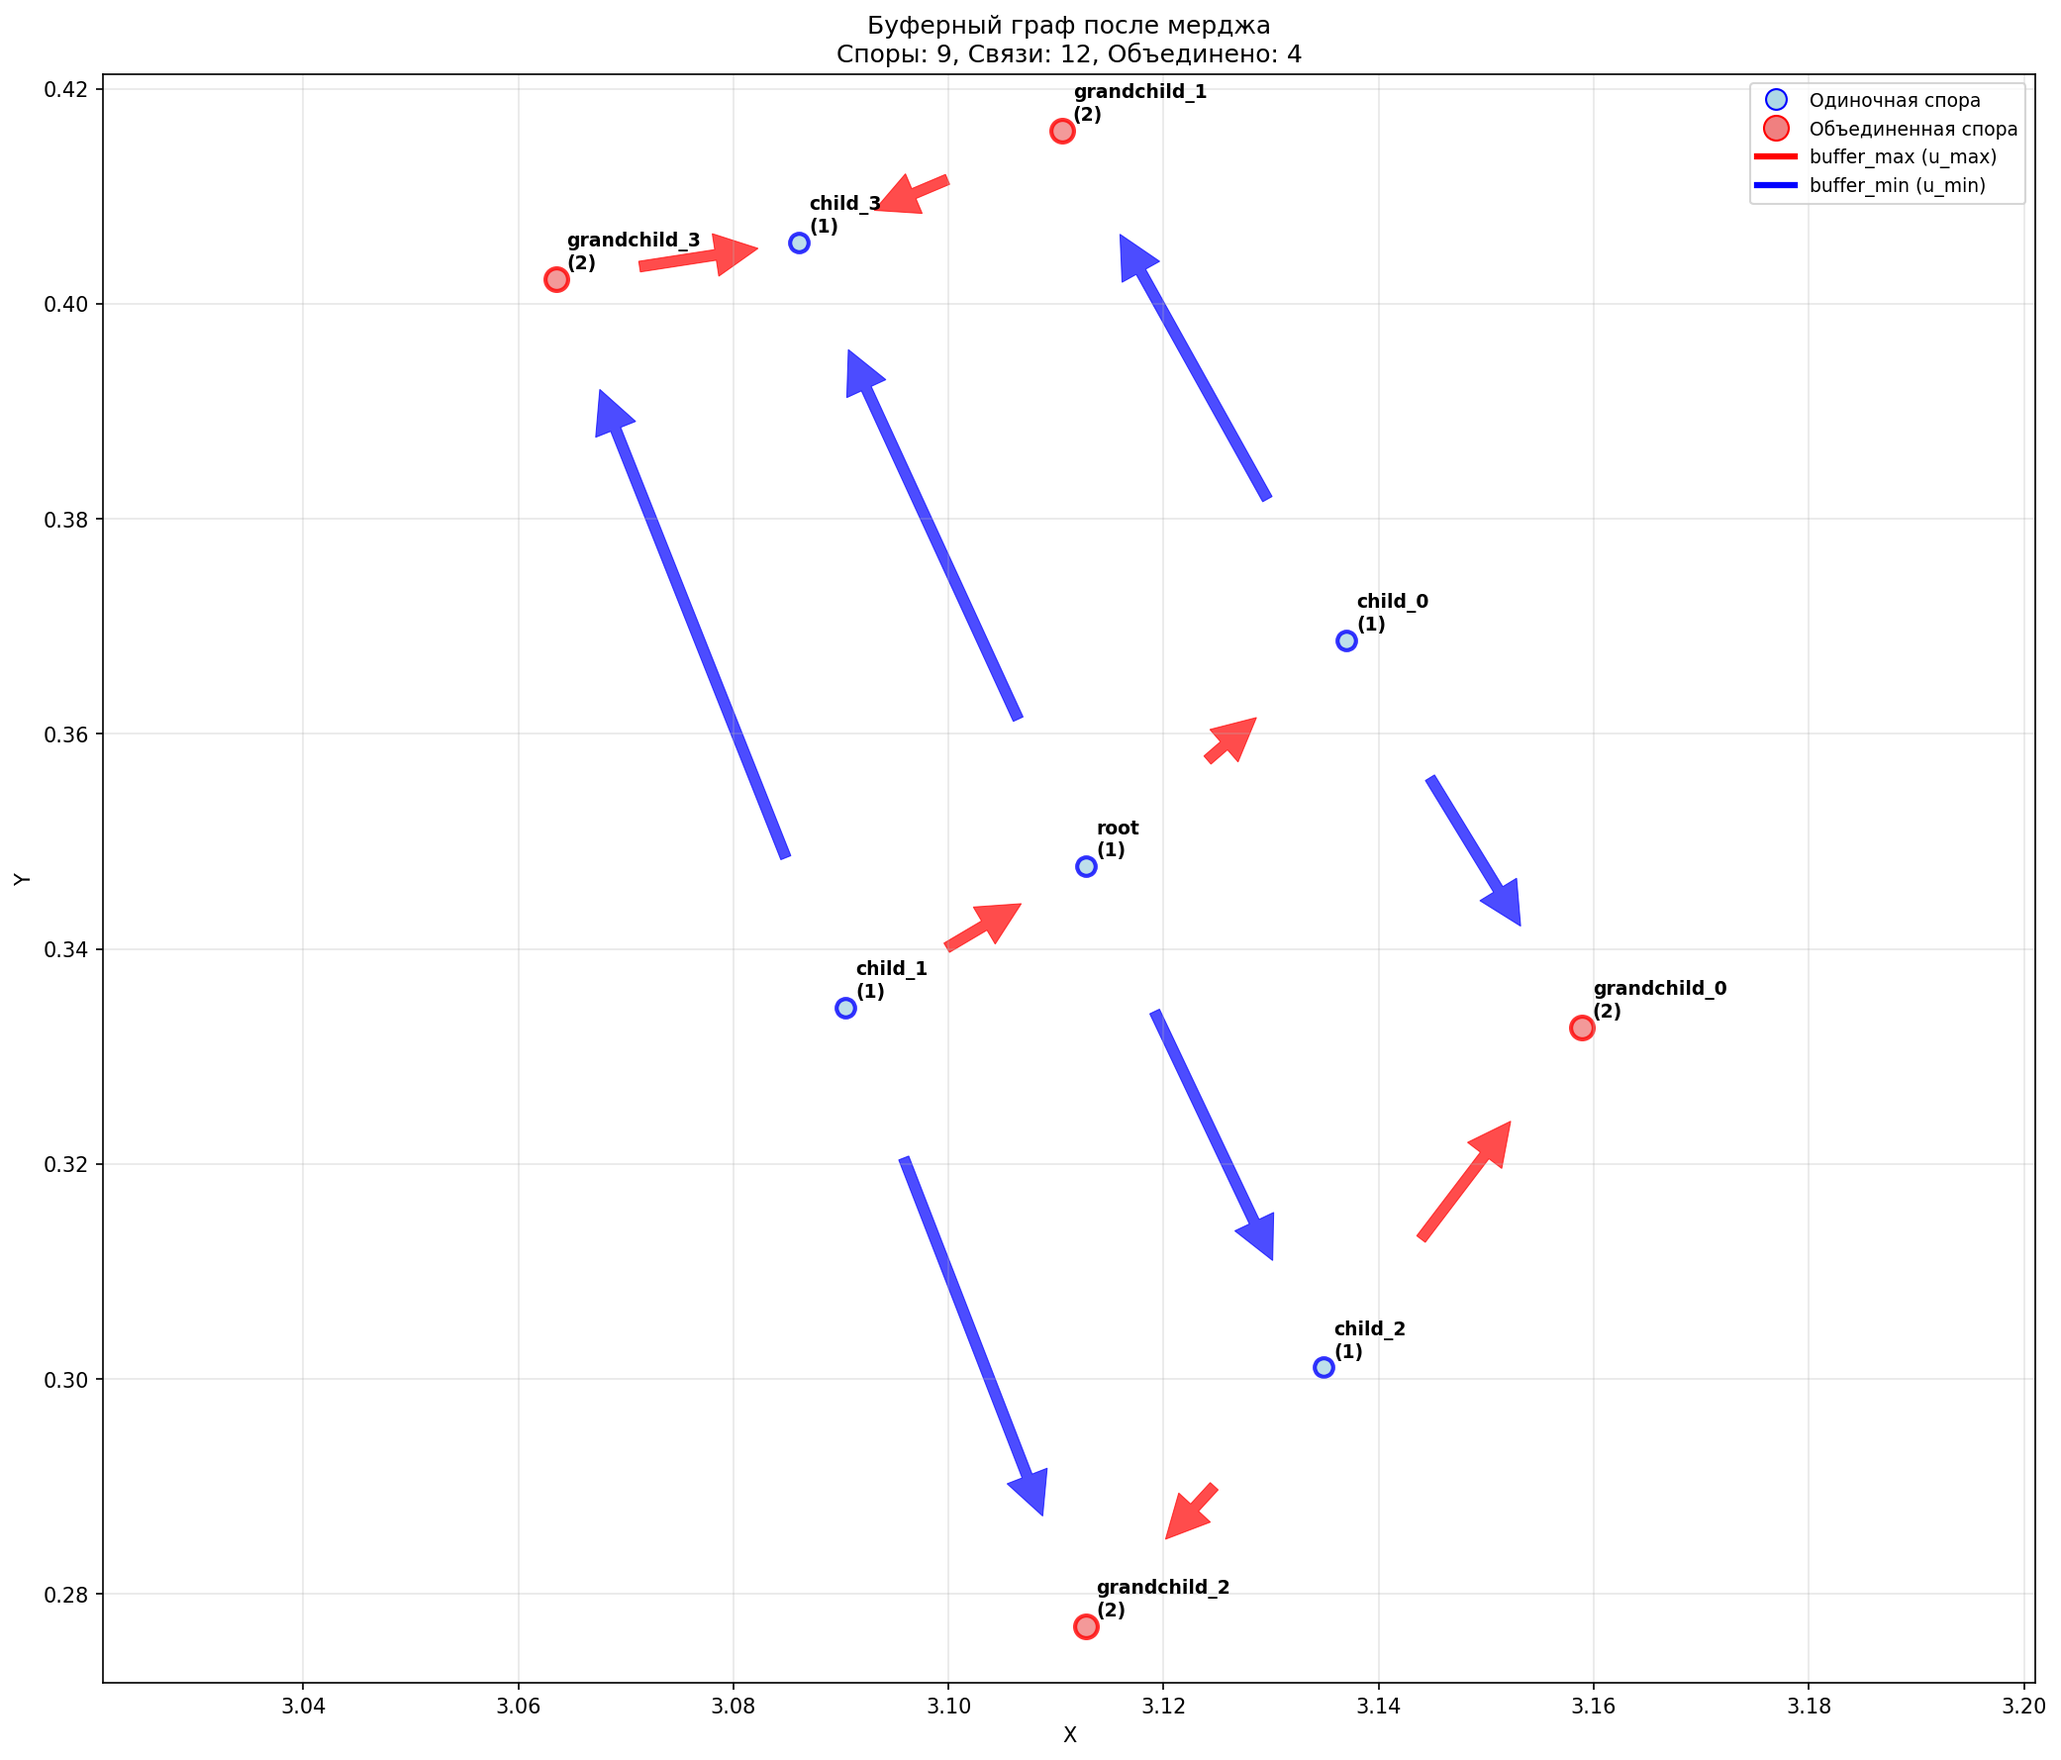
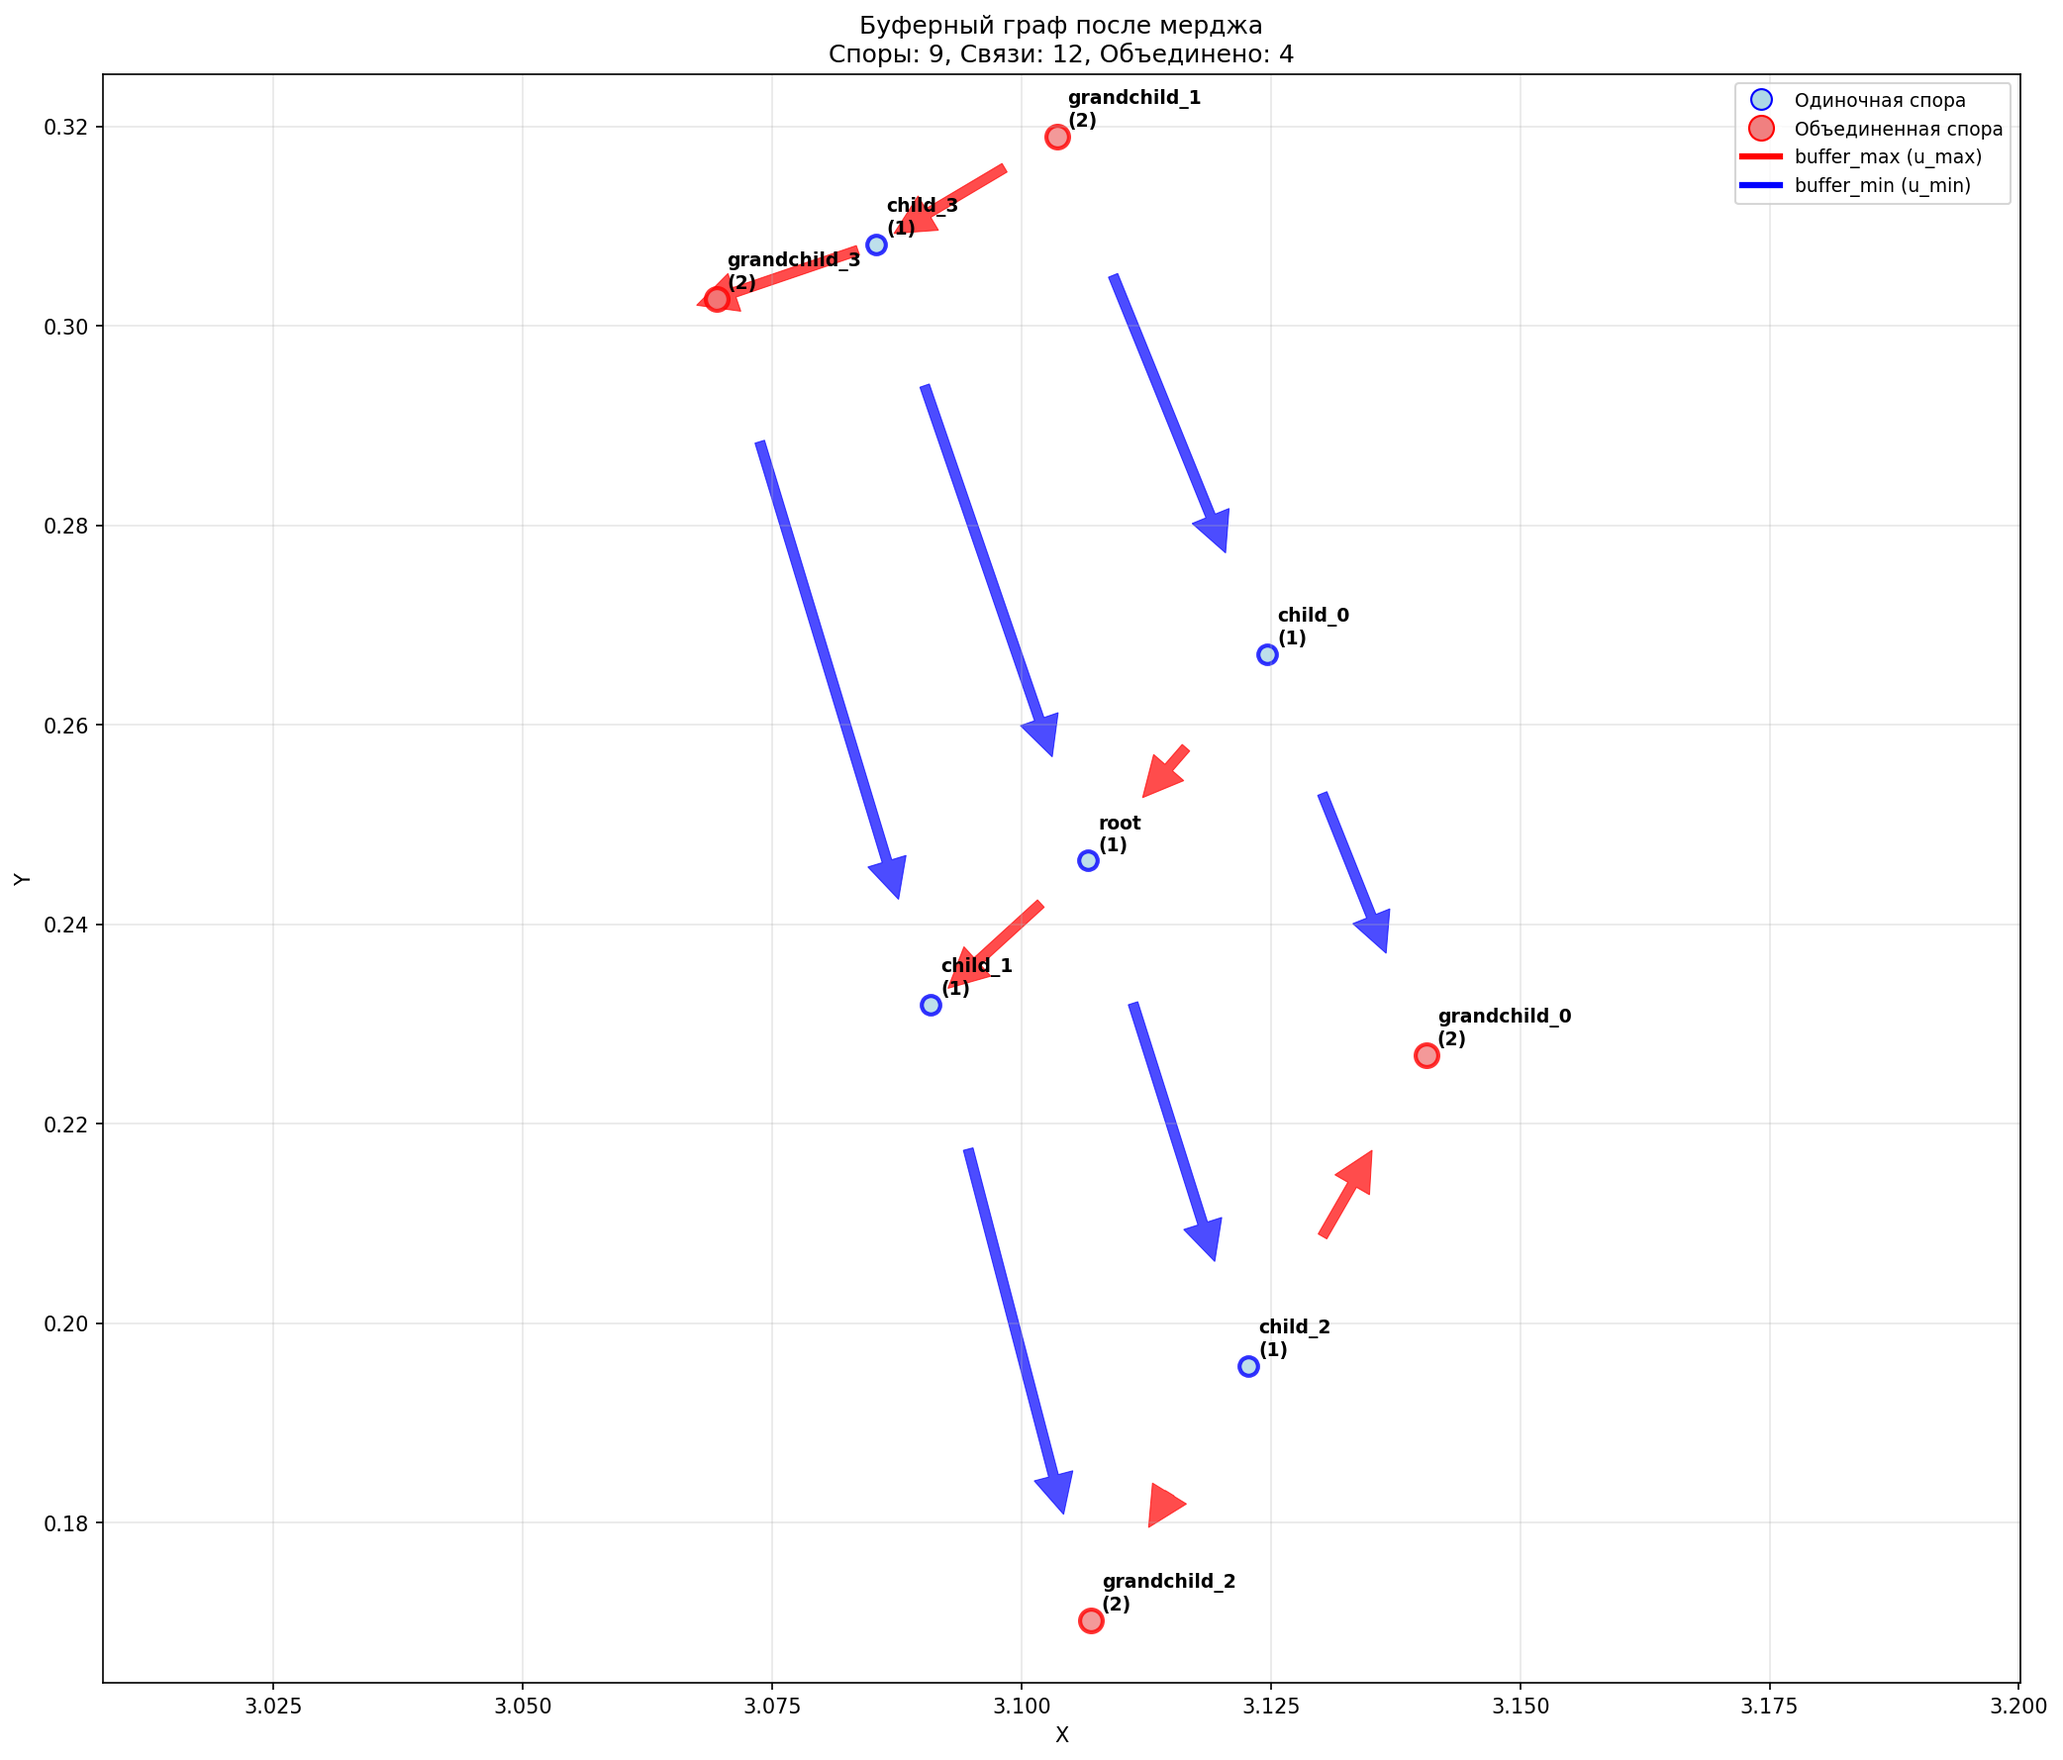
откат

diff --git a/spores/v16_picker/src/managers/buffer_merge_manager.py b/spores/v16_picker/src/managers/buffer_merge_manager.py
@@ -369,11 +369,16 @@ class BufferMergeManager:
             control = child_data.get('control', 0)
             link_type = 'buffer_max' if control > 0 else 'buffer_min'
             
-            # Стрелка всегда показывает: откуда → куда ведет управление
-            # Для корень-ребенок: всегда корень → ребенок (независимо от dt)
+            # Определяем направление по dt
             dt = child_data.get('dt', 0)
-            parent_id, child_id = root_buffer_id, child_buffer_id
-            direction = "→"
+            if dt > 0:
+                # dt > 0: корень → ребенок
+                parent_id, child_id = root_buffer_id, child_buffer_id
+                direction = "→"
+            else:
+                # dt < 0: ребенок → корень  
+                parent_id, child_id = child_buffer_id, root_buffer_id
+                direction = "←"
             
             # Создаем связь
             link = {
@@ -420,11 +425,16 @@ class BufferMergeManager:
             control = grandchild_data.get('control', 0)
             link_type = 'buffer_max' if control > 0 else 'buffer_min'
             
-            # Направление стрелки всегда показывает логическую связь:
-            # ребенок (решение) → внук (результат управления)
-            dt = grandchild_data.get('dt', 0)  # Получаем dt для source_info
-            parent_id, child_id = parent_buffer_id, grandchild_buffer_id
-            direction = "→"
+            # Определяем направление по dt
+            dt = grandchild_data.get('dt', 0)
+            if dt > 0:
+                # dt > 0: ребенок → внук
+                parent_id, child_id = parent_buffer_id, grandchild_buffer_id
+                direction = "→"
+            else:
+                # dt < 0: внук → ребенок
+                parent_id, child_id = grandchild_buffer_id, parent_buffer_id
+                direction = "←"
             
             # Проверяем на дублирование связи (может быть при объединении)
             existing_link = self._find_existing_link(parent_id, child_id, link_type)
@@ -1038,22 +1048,6 @@ class BufferMergeManager:
                     color_manager=spore_manager.color_manager,
                     config=spore_manager.config
                 )
-                
-                # 🔍 ДИАГНОСТИКА СОЗДАНИЯ РЕАЛЬНОЙ СВЯЗИ
-                print(f"      🔍 ДЕТАЛЬНАЯ ДИАГНОСТИКА:")
-                print(f"         Буферная связь: {parent_buffer_id} → {child_buffer_id} ({link_type})")
-                print(f"         parent_spore: {parent_spore.id} в позиции {parent_spore.calc_2d_pos()}")
-                print(f"         child_spore: {child_spore.id} в позиции {child_spore.calc_2d_pos()}")
-                print(f"         Созданный Link:")
-                print(f"           link.parent_spore.id = {visual_link.parent_spore.id}")
-                print(f"           link.child_spore.id = {visual_link.child_spore.id}")
-                
-                # Проверим что направление Link соответствует ожиданию
-                expected_direction = f"{parent_buffer_id} → {child_buffer_id}"
-                actual_direction = f"{visual_link.parent_spore.id} → {visual_link.child_spore.id}"
-                match = "✅" if expected_direction.replace("buffer_", "real_") == actual_direction else "❌"
-                print(f"         {match} Ожидали: {expected_direction}")
-                print(f"         {match} Получили: {actual_direction}")
                 
                 # Устанавливаем цвет после создания
                 visual_link.color = spore_manager.color_manager.get_color('link', color_key)
